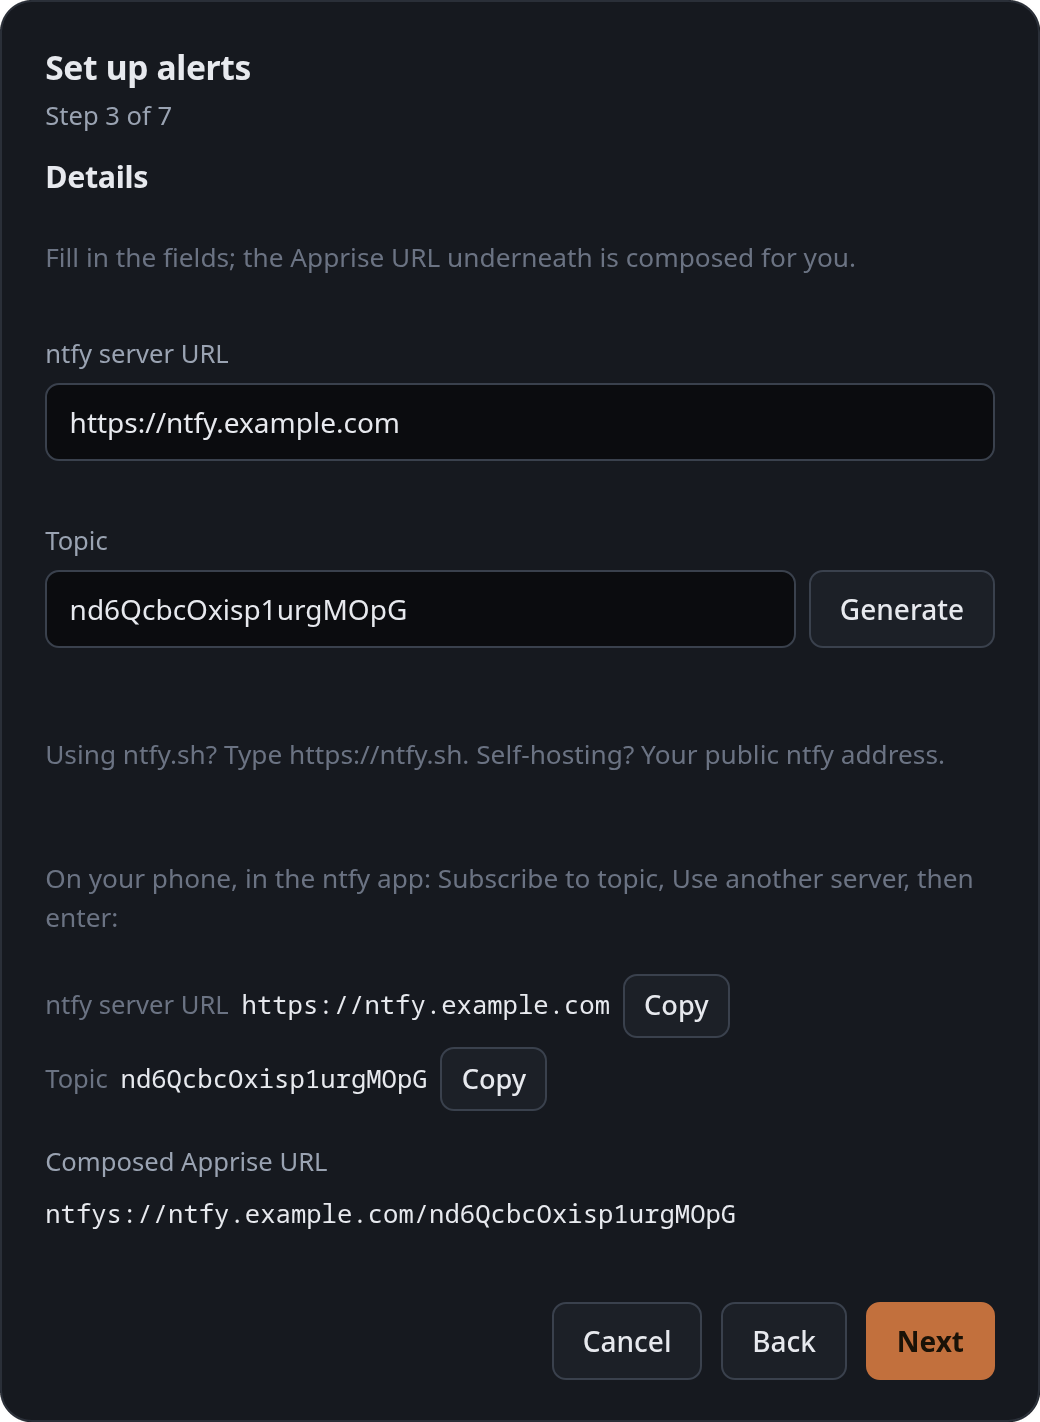
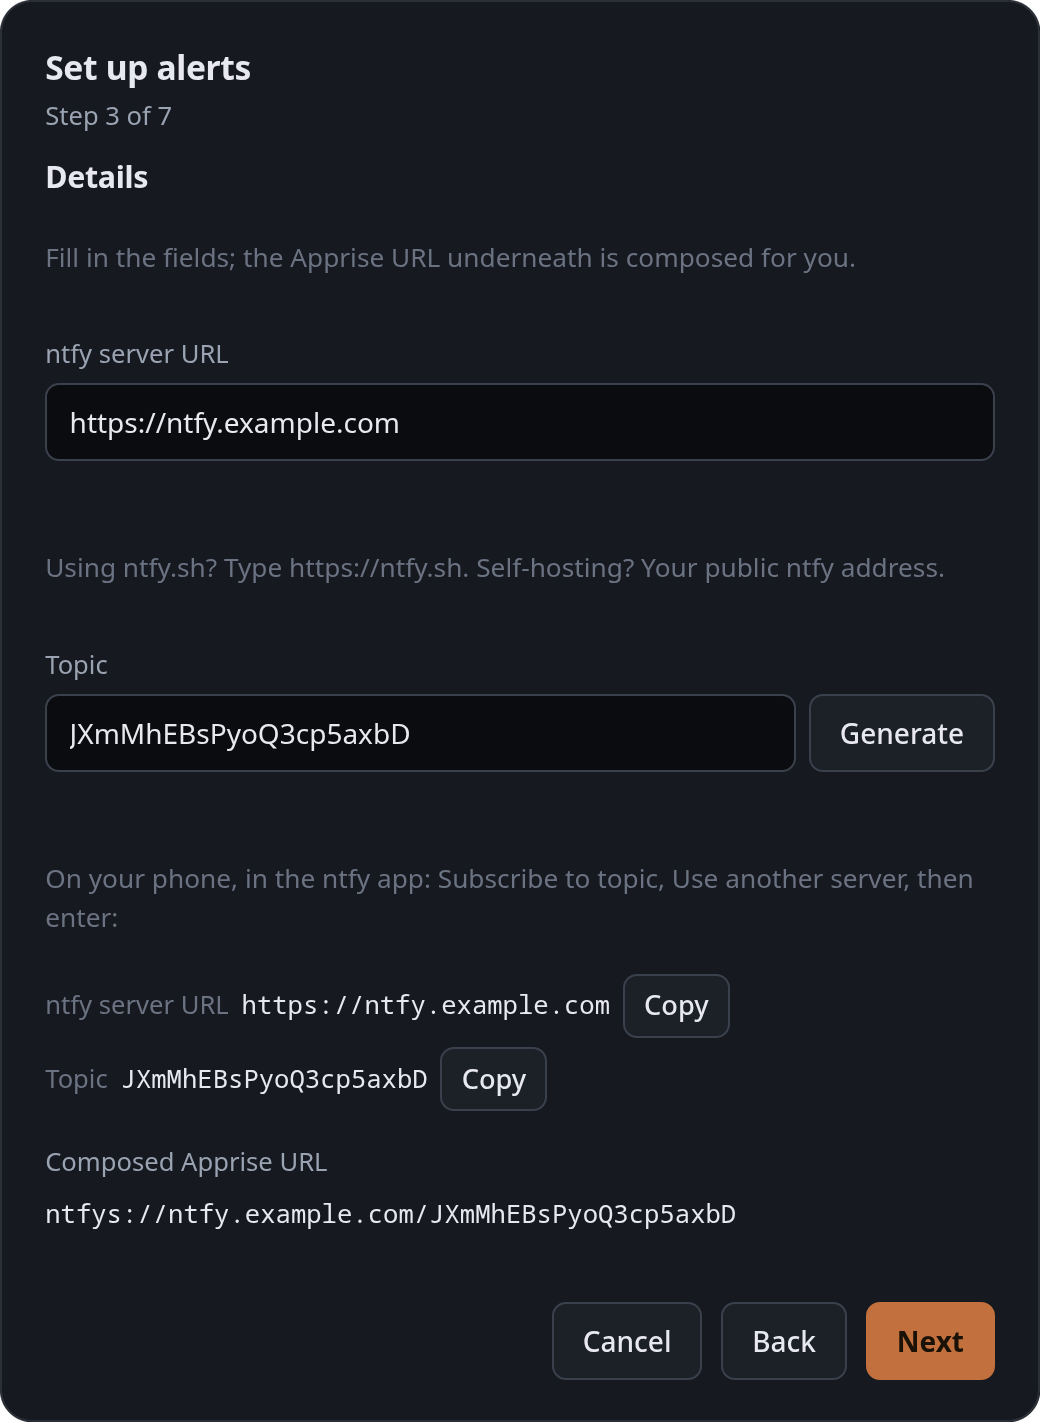
fix(web): App test mock exports ApiError; ntfy hint under its field; wiki accuracy

diff --git a/web/src/pages/Settings/alerts/steps.tsx b/web/src/pages/Settings/alerts/steps.tsx
@@ -1,6 +1,7 @@
 import type { TFunction } from "i18next";
 import {
 	type Dispatch,
+	Fragment,
 	type ReactNode,
 	useEffect,
 	useRef,
@@ -243,36 +244,40 @@ export function StepDetails({ state, dispatch, t }: StepProps) {
 			<p className="text-xs text-(--text-muted)">{t(`${K}.step3Hint`)}</p>
 
 			{FIELDS[kind].map((f) => (
-				<Field
-					key={f.key}
-					def={f}
-					label={t(`${K}.field.${f.key}`)}
-					value={value(f.key)}
-					onChange={(v) => set(f.key, v)}
-				>
-					{kind === "ntfy" && f.key === "topic" && (
-						<button
-							type="button"
-							className="ui-btn ui-btn-secondary shrink-0"
-							data-testid="wiz-generate-topic"
-							onClick={() => set("topic", generateTopic())}
-						>
-							{t(`${K}.generate`)}
-						</button>
+				<Fragment key={f.key}>
+					<Field
+						def={f}
+						label={t(`${K}.field.${f.key}`)}
+						value={value(f.key)}
+						onChange={(v) => set(f.key, v)}
+					>
+						{kind === "ntfy" && f.key === "topic" && (
+							<button
+								type="button"
+								className="ui-btn ui-btn-secondary shrink-0"
+								data-testid="wiz-generate-topic"
+								onClick={() => set("topic", generateTopic())}
+							>
+								{t(`${K}.generate`)}
+							</button>
+						)}
+					</Field>
+					{/* The hint belongs under the field it talks about. Nothing here
+					    checks that the ntfy server answers: Model Hotel serves
+					    `connect-src 'self'`, so a fetch at the operator's own server is
+					    blocked before it leaves the page and could only ever report
+					    failure. Step 4 sends from the server, which is the side that has
+					    to reach the ntfy server anyway. */}
+					{kind === "ntfy" && f.key === "server" && (
+						<p className="text-xs text-(--text-muted)">
+							{t(`${K}.ntfyServerHint`)}
+						</p>
 					)}
-				</Field>
+				</Fragment>
 			))}
 
-			{/* Nothing here checks that the ntfy server answers: Model Hotel serves
-			    `connect-src 'self'`, so a fetch at the operator's own server is
-			    blocked before it leaves the page and could only ever report
-			    failure. Step 4 sends from the server, which is the side that has to
-			    reach the ntfy server anyway. */}
 			{kind === "ntfy" && (
 				<>
-					<p className="text-xs text-(--text-muted)">
-						{t(`${K}.ntfyServerHint`)}
-					</p>
 					<div className="space-y-1">
 						<p className="text-xs text-(--text-muted)">
 							{t(`${K}.ntfySubscribe`)}

diff --git a/frontdesk/web/src/components/alerts/steps.tsx b/frontdesk/web/src/components/alerts/steps.tsx
@@ -1,6 +1,7 @@
 import type { TFunction } from "i18next";
 import {
 	type Dispatch,
+	Fragment,
 	type ReactNode,
 	useEffect,
 	useMemo,
@@ -240,36 +241,40 @@ export function StepDetails({ state, dispatch, t }: StepProps) {
 			<p className="fd-faint fd-step-intro">{t(`${K}.step3Hint`)}</p>
 
 			{FIELDS[kind].map((f) => (
-				<Field
-					key={f.key}
-					def={f}
-					label={t(`${K}.field.${f.key}`)}
-					value={value(f.key)}
-					onChange={(v) => set(f.key, v)}
-				>
-					{kind === "ntfy" && f.key === "topic" && (
-						<button
-							type="button"
-							className="ui-btn"
-							data-testid="wiz-generate-topic"
-							onClick={() => set("topic", generateTopic())}
-						>
-							{t(`${K}.generate`)}
-						</button>
+				<Fragment key={f.key}>
+					<Field
+						def={f}
+						label={t(`${K}.field.${f.key}`)}
+						value={value(f.key)}
+						onChange={(v) => set(f.key, v)}
+					>
+						{kind === "ntfy" && f.key === "topic" && (
+							<button
+								type="button"
+								className="ui-btn"
+								data-testid="wiz-generate-topic"
+								onClick={() => set("topic", generateTopic())}
+							>
+								{t(`${K}.generate`)}
+							</button>
+						)}
+					</Field>
+					{/* The hint belongs under the field it talks about. Nothing here
+					    checks that the ntfy server answers: Front Desk serves
+					    `connect-src 'self'`, so a fetch at the operator's own server is
+					    blocked before it leaves the page and could only ever report
+					    failure. Step 4 sends from Front Desk, which is the side that has
+					    to reach the server anyway. */}
+					{kind === "ntfy" && f.key === "server" && (
+						<p className="fd-faint" style={{ fontSize: "0.82rem" }}>
+							{t(`${K}.ntfyServerHint`)}
+						</p>
 					)}
-				</Field>
+				</Fragment>
 			))}
 
-			{/* Nothing here checks that the ntfy server answers: Front Desk serves
-			    `connect-src 'self'`, so a fetch at the operator's own server is
-			    blocked before it leaves the page and could only ever report
-			    failure. Step 4 sends from Front Desk, which is the side that has
-			    to reach the server anyway. */}
 			{kind === "ntfy" && (
 				<>
-					<p className="fd-faint" style={{ fontSize: "0.82rem" }}>
-						{t(`${K}.ntfyServerHint`)}
-					</p>
 					<div className="fd-stack" style={{ gap: "0.3rem" }}>
 						<p className="fd-faint" style={{ fontSize: "0.82rem" }}>
 							{t(`${K}.ntfySubscribe`)}

diff --git a/web/src/__tests__/App.test.tsx b/web/src/__tests__/App.test.tsx
@@ -14,7 +14,10 @@ function clearAuthCookie() {
 	document.cookie = "mh_csrf=; path=/; max-age=0";
 }
 
-vi.mock("../api/client", () => ({
+// Partial mock: the real module still supplies ApiError, which components
+// branch on with instanceof, so a hand-rolled stub would never match.
+vi.mock("../api/client", async (importOriginal) => ({
+	...(await importOriginal<typeof import("../api/client")>()),
 	API_BASE: "",
 	// Cookie-derived auth signal so AppContent gates on it, mirroring production.
 	isAuthenticated: vi.fn(() => /mh_csrf=[^;\s]/.test(document.cookie)),

diff --git a/wiki/Alerting.md b/wiki/Alerting.md
@@ -48,12 +48,12 @@ The dispatcher is a single consumer of Model Hotel's internal event bus. For eac
 
 ### Guided setup
 
-**Settings → Alerts** carries exactly one guided button on either surface: **Set up alerts** while nothing is stored, and **Add destination** once a destination is saved. It opens a seven-step wizard (**Add destination** enters at step 2 and skips the Apprise API URL, which is already stored). Every step verifies its own input against the real container before **Next** unlocks, and nothing is written until **Finish**, so **Cancel** at any point leaves your settings exactly as they were.
+**Settings → Alerts** carries exactly one guided button on either surface: **Set up alerts** while nothing is stored, and **Add destination** once a destination is saved. It opens a seven-step wizard (**Add destination** enters at step 2 and skips the Apprise API URL, which is already stored). Steps 1 and 4 verify against the real container before **Next** unlocks; the other steps unlock on their own input (a chosen tile, a valid, not-yet-used destination, a non-empty list). Nothing is written until **Finish**, so **Cancel** at any point leaves your settings exactly as they were.
 
-The two runs differ in two places. Front Desk offers a **Bellhop** tile and Model Hotel does not: [[Bellhop]] notifies from Front Desk's own fleet poll, so the gateway's events never reach it. And a Model Hotel member whose settings are managed fleet-wide by config sync skips the events step, because Front Desk owns the event selection there; that run writes the Apprise API URL and the destinations and leaves the alert switches alone.
+The two runs differ in two places. Front Desk offers a **Bellhop** tile and Model Hotel does not: [[Bellhop]] notifies from Front Desk's own fleet poll, so the gateway's events never reach it. And on a Model Hotel member whose settings are managed fleet-wide by config sync the events step shows a note in place of the picker, because Front Desk owns the event selection there and there is nothing to choose; that run writes the Apprise API URL and the destinations and leaves the alert switches alone.
 
 ![Model Hotel Alerts card](screenshots/settings_alerts.png)
-*Model Hotel dashboard - Alerts with alerting on: the "Events to notify on" picker unrolled, the plaintext Destinations list with its reachability indicator and per-row Copy, Test and Remove, the single guided button (**Add destination** on a configured card, **Set up alerts** on a fresh one), and the individual fields folded into "Manual configuration (advanced)". With alerting off the card rolls up to its toggle.*
+*Model Hotel dashboard - Alerts with alerting on: the "Events to notify on" picker unrolled, the plaintext Destinations list with its reachability indicator and per-row Copy, Test and Remove, the single guided button (**Add destination** on a configured card, **Set up alerts** on a fresh one), and the individual fields folded into "Manual configuration (advanced)". With alerting off, the destinations list and the manual fields are hidden; the toggle, the event list and the guided button stay.*
 
 ![Front Desk Alerts card](screenshots/frontdesk_settings_alerts.png)
 *Front Desk Settings - Alerts: the same card in Front Desk's styling.*
@@ -63,7 +63,7 @@ The two runs differ in two places. Front Desk offers a **Bellhop** tile and Mode
 3. **Details.** Plain fields for the tile you picked, with the composed Apprise URL rendered in clear underneath. You never type an Apprise URL yourself. A destination that is already stored, or already added earlier in this run, stops here: it cannot be added twice.
 4. **Test this destination.** **Send test** posts one notification through the step-1 container to this destination only, and nothing is saved. A success is required before the wizard moves on. A failure says which part failed: apprise rejected the destination URL, apprise could not deliver it (check the server and topic, or the bot token), or apprise stopped answering. A Bellhop destination answers the test with a "push test received" notification on the phone (needs Bellhop 0.9.10 or newer); real alerts only wake it.
 5. **Destinations.** The destinations this run adds; anything already saved stays as it is. **Add another** returns to step 2. The wizard only appends; it never drops a destination you already had.
-6. **Events.** The event picker. A run on a surface with no saved selection starts from the recommended set; a run where you already saved one starts from that selection, including an empty one. **Reset to recommended** is always there to tick the recommended set again. Managed members skip this step entirely.
+6. **Events.** The event picker. A run on a surface with no saved selection starts from the recommended set; a run where you already saved one starts from that selection, including an empty one. **Reset to recommended** is always there to tick the recommended set again. On a managed member the step shows a note instead of the picker, because there is nothing to choose there, and **Next** carries on.
 7. **Finish.** One write covering the API URL, the destinations, the events and the enable toggle, so a failure leaves nothing half-applied. The final screen offers **Send test to everything**.
 
 ![Alerts wizard, step 1](screenshots/alerts_wizard_step1.png)
@@ -108,10 +108,13 @@ Current events:
 | Provider down (circuit breaker opened) | Failover | ✅ on | a provider's breaker trips |
 | Provider recovered (circuit breaker closed) | Failover | ✅ on | the breaker recovers |
 | Failover group sync failed | Failover | ✅ on | a failover group fails to sync |
+| Provider disabled as scheduled | Failover | ✅ on | a provider reaches the disable date you set for it and the background sweep switches it off |
 | Provider failed during discovery | Discovery | ⬜ off | a provider errors during model discovery |
-| Fleet ownership conflict | High Availability | ✅ on | a second Front Desk tries to claim a member that another Front Desk already owns (debounced to once/hour per rejected Front Desk id) |
-| SSO identity bound | Security | ⬜ off | an external identity is bound to an admin account for the first time |
-| Quota schema drift | Quota | ✅ on | a provider changes the *shape* of its quota response (a key path appears or disappears). Carries the added and removed paths. Alert-only: nothing about routing or failover changes, but a normalizer written against the old shape may now be reporting the wrong numbers silently, which is why it defaults on |
+| Model discrepancies left unaddressed | Discovery | ⬜ off | the Models badge has been asking for attention for longer than your threshold |
+| Model disabled (provider no longer serves it) | Discovery | ✅ on | the gateway disables a model because the provider keeps refusing it as retired |
+| Front Desk ownership conflict | High Availability | ✅ on | a second Front Desk tries to claim a member that another Front Desk already owns (debounced to once/hour per rejected Front Desk id) |
+| SSO identity bound to an account | Security | ⬜ off | an external identity is bound to an admin account for the first time |
+| Provider changed its quota response shape | Quota | ✅ on | a provider changes the *shape* of its quota response (a key path appears or disappears). Carries the added and removed paths. Alert-only: nothing about routing or failover changes, but a normalizer written against the old shape may now be reporting the wrong numbers silently, which is why it defaults on |
 
 On first run the default-on events are pre-selected. Deselecting everything means nothing fires.
 
